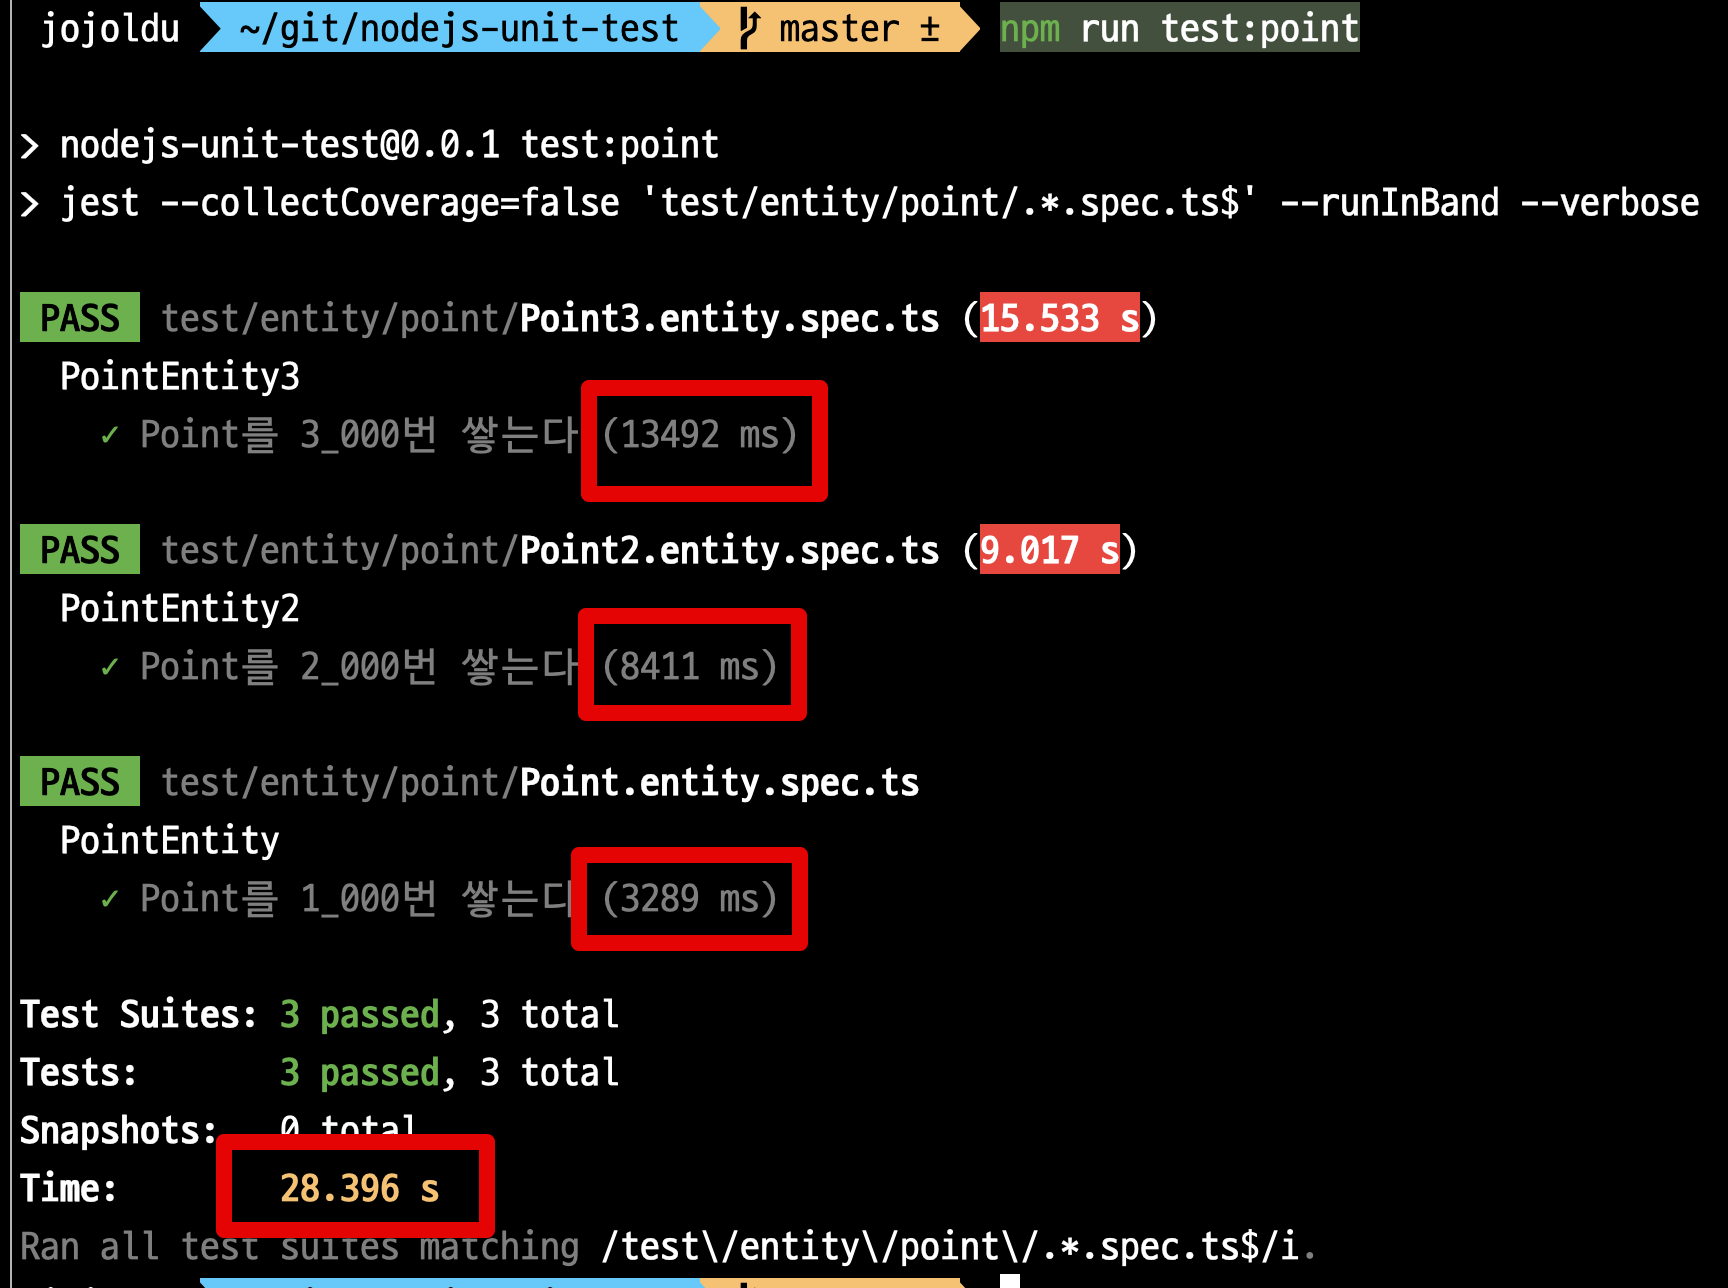
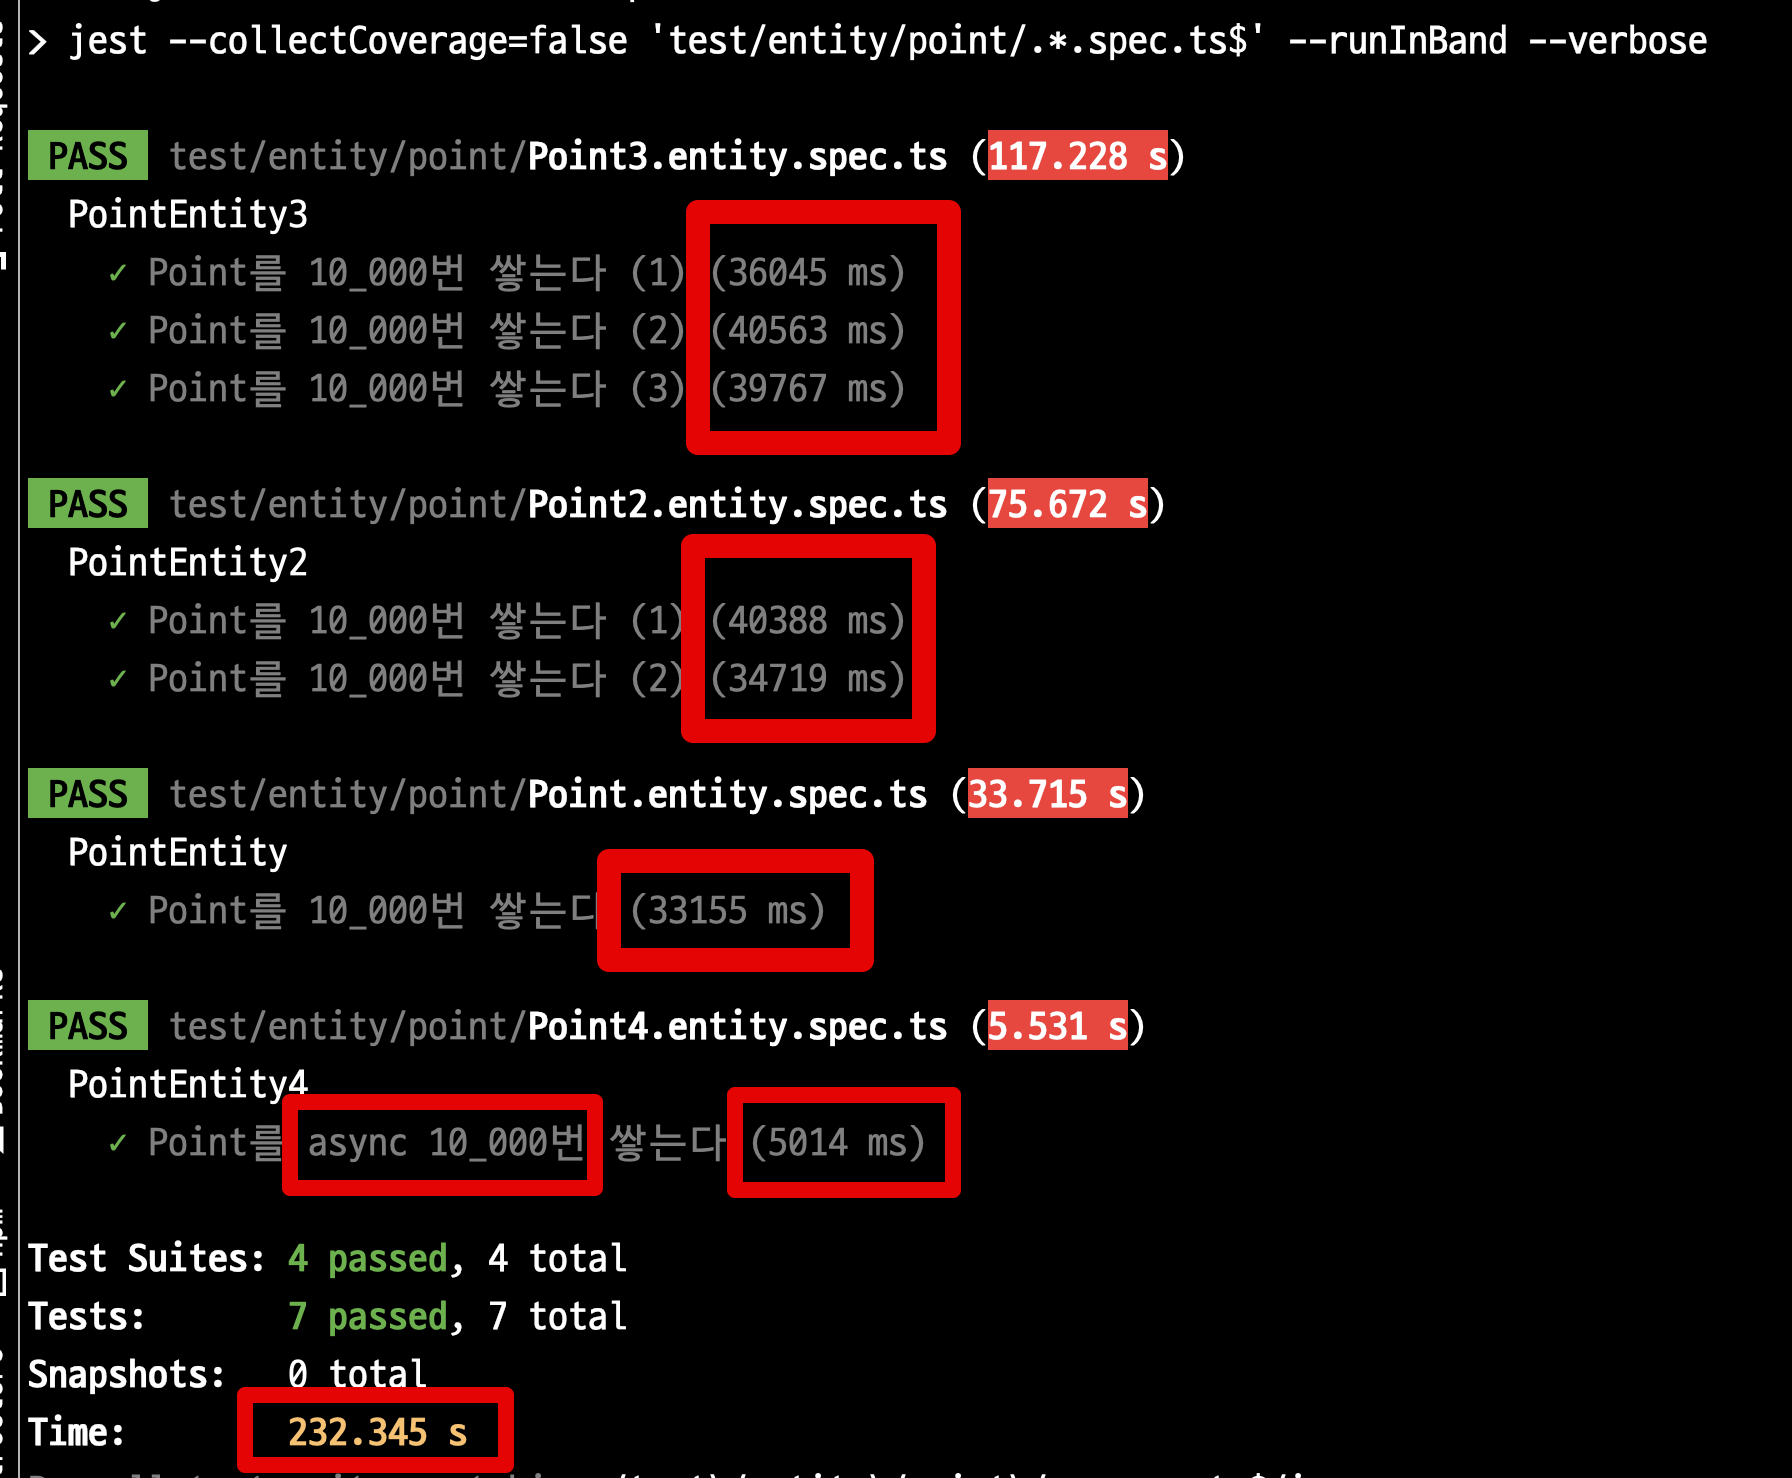
극적인 성능 비교를 위해 1,000 -> 10,000으로 데이터 증가

diff --git a/test/entity/point/Point3.entity.spec.ts b/test/entity/point/Point3.entity.spec.ts
@@ -5,7 +5,7 @@ import { getPgTestTypeOrmModule } from '../getPgTestTypeOrmModule';
 import { getRepositoryToken } from '@nestjs/typeorm';
 import { PointEntityModule } from '../../../src/domain/entity/Point/PointEntityModule';
 import { unloggedTable } from '../unloggedTable';
-import { bulkInsertPoints } from './bulkInsertPoints';
+import { bulkInsertPoints } from './insert/bulkInsertPoints';
 
 describe('PointEntity3', () => {
   let pointRepository: Repository<Point>;
@@ -15,7 +15,7 @@ describe('PointEntity3', () => {
       imports: [PointEntityModule, getPgTestTypeOrmModule()],
     }).compile();
 
-    await unloggedTable(getConnection());
+    // await unloggedTable(getConnection());
 
     pointRepository = module.get(getRepositoryToken(Point));
   });
@@ -24,25 +24,25 @@ describe('PointEntity3', () => {
 
   beforeEach(async () => await pointRepository.clear());
 
-  it('Point를 1_000번 쌓는다 (1)', async () => {
+  it('Point를 10_000번 쌓는다 (1)', async () => {
     // given
-    const count = 1_000;
+    const count = 10_000;
 
     // when
     await bulkInsertPoints(count, pointRepository);
   });
 
-  it('Point를 1_000번 쌓는다 (2)', async () => {
+  it('Point를 10_000번 쌓는다 (2)', async () => {
     // given
-    const count = 1_000;
+    const count = 10_000;
 
     // when
     await bulkInsertPoints(count, pointRepository);
   });
 
-  it('Point를 1_000번 쌓는다 (3)', async () => {
+  it('Point를 10_000번 쌓는다 (3)', async () => {
     // given
-    const count = 1_000;
+    const count = 10_000;
 
     // when
     await bulkInsertPoints(count, pointRepository);

diff --git a/test/entity/point/Point2.entity.spec.ts b/test/entity/point/Point2.entity.spec.ts
@@ -4,7 +4,7 @@ import { Test, TestingModule } from '@nestjs/testing';
 import { getPgTestTypeOrmModule } from '../getPgTestTypeOrmModule';
 import { getRepositoryToken } from '@nestjs/typeorm';
 import { PointEntityModule } from '../../../src/domain/entity/Point/PointEntityModule';
-import { bulkInsertPoints } from './bulkInsertPoints';
+import { bulkInsertPoints } from './insert/bulkInsertPoints';
 import { unloggedTable } from '../unloggedTable';
 
 describe('PointEntity2', () => {
@@ -15,7 +15,7 @@ describe('PointEntity2', () => {
       imports: [PointEntityModule, getPgTestTypeOrmModule()],
     }).compile();
 
-    await unloggedTable(getConnection());
+    // await unloggedTable(getConnection());
 
     pointRepository = module.get(getRepositoryToken(Point));
   });
@@ -24,17 +24,17 @@ describe('PointEntity2', () => {
 
   beforeEach(async () => await pointRepository.clear());
 
-  it('Point를 1_000번 쌓는다 (1)', async () => {
+  it('Point를 10_000번 쌓는다 (1)', async () => {
     // given
-    const count = 1_000;
+    const count = 10_000;
 
     // when
     await bulkInsertPoints(count, pointRepository);
   });
 
-  it('Point를 1_000번 쌓는다 (2)', async () => {
+  it('Point를 10_000번 쌓는다 (2)', async () => {
     // given
-    const count = 1_000;
+    const count = 10_000;
 
     // when
     await bulkInsertPoints(count, pointRepository);

diff --git a/test/entity/point/Point.entity.spec.ts b/test/entity/point/Point.entity.spec.ts
@@ -5,8 +5,8 @@ import { getPgTestTypeOrmModule } from '../getPgTestTypeOrmModule';
 import { getRepositoryToken } from '@nestjs/typeorm';
 import { PointEntityModule } from '../../../src/domain/entity/Point/PointEntityModule';
 import { unloggedTable } from '../unloggedTable';
-import { bulkInsertPoints } from './bulkInsertPoints';
-import { bulkAsyncInsertPoints } from './bulkAsyncInsertPoints';
+import { bulkInsertPoints } from './insert/bulkInsertPoints';
+import { bulkAsyncInsertPoints } from './insert/bulkAsyncInsertPoints';
 
 describe('PointEntity', () => {
   let pointRepository: Repository<Point>;
@@ -25,22 +25,11 @@ describe('PointEntity', () => {
 
   beforeEach(async () => await pointRepository.clear());
 
-  it('Point를 1_000번 쌓는다', async () => {
+  it('Point를 10_000번 쌓는다', async () => {
     // given
-    const count = 1000;
+    const count = 10_000;
 
     // when
     await bulkInsertPoints(count, pointRepository);
-  });
-
-  it('Point를 async 1_000번 쌓는다', async () => {
-    // given
-    const count = 1000;
-
-    // when
-    await bulkAsyncInsertPoints(count, pointRepository);
-
-    const actual = await pointRepository.count();
-    expect(actual).toBe(count);
   });
 });

diff --git a/test/entity/point/Point4.entity.spec.ts b/test/entity/point/Point4.entity.spec.ts
@@ -5,7 +5,7 @@ import { getPgTestTypeOrmModule } from '../getPgTestTypeOrmModule';
 import { getRepositoryToken } from '@nestjs/typeorm';
 import { PointEntityModule } from '../../../src/domain/entity/Point/PointEntityModule';
 import { unloggedTable } from '../unloggedTable';
-import { bulkAsyncInsertPoints } from './bulkAsyncInsertPoints';
+import { bulkAsyncInsertPoints } from './insert/bulkAsyncInsertPoints';
 
 describe('PointEntity4 ', () => {
   let pointRepository: Repository<Point>;
@@ -15,7 +15,7 @@ describe('PointEntity4 ', () => {
       imports: [PointEntityModule, getPgTestTypeOrmModule()],
     }).compile();
 
-    await unloggedTable(getConnection());
+    // await unloggedTable(getConnection());
 
     pointRepository = module.get(getRepositoryToken(Point));
   });
@@ -24,9 +24,9 @@ describe('PointEntity4 ', () => {
 
   beforeEach(async () => await pointRepository.clear());
 
-  it('Point를 async 1_000번 쌓는다', async () => {
+  it('Point를 async 10_000번 쌓는다', async () => {
     // given
-    const count = 1000;
+    const count = 10_000;
 
     // when
     await bulkAsyncInsertPoints(count, pointRepository);

diff --git a/test/entity/point/insert/bulkAsyncInsertPoints.ts b/test/entity/point/insert/bulkAsyncInsertPoints.ts
@@ -1,5 +1,5 @@
 import { Repository } from 'typeorm';
-import { Point } from '../../../src/domain/entity/Point/Point.entity';
+import { Point } from '../../../../src/domain/entity/Point/Point.entity';
 
 export async function bulkAsyncInsertPoints(count: number, pointRepository: Repository<Point>) {
   const points = [];
@@ -7,5 +7,5 @@ export async function bulkAsyncInsertPoints(count: number, pointRepository: Repo
     points.push(Point.of(key * 1_000));
   }
 
-  await Promise.all(points.map(p => pointRepository.insert(p)));
+  await Promise.all(points.map(p => pointRepository.save(p)));
 }

diff --git a/test/entity/point/insert/bulkInsertPoints.ts b/test/entity/point/insert/bulkInsertPoints.ts
@@ -1,8 +1,8 @@
 import { Repository } from 'typeorm';
-import { Point } from '../../../src/domain/entity/Point/Point.entity';
+import { Point } from '../../../../src/domain/entity/Point/Point.entity';
 
 export async function bulkInsertPoints(count: number, pointRepository: Repository<Point>) {
   for (let key = 0; key < count; key++) {
-    await pointRepository.insert(Point.of(key * 1_000));
+    await pointRepository.save(Point.of(key * 1_000));
   }
 }

diff --git a/posts/docker-통합테스트-성능개선/README.md b/posts/docker-통합테스트-성능개선/README.md
@@ -46,6 +46,7 @@ services:
 
 ```ts
 // bulkInsertPoints.ts
+// 수백개의 통합 테스트와 비슷한 상황을 가장하기 위해 모두 sync로 요청한다.
 export async function bulkInsertPoints(count: number, pointRepository: Repository<Point>) {
   for (let key = 0; key < count; key++) {
     await pointRepository.save(Point.of(key * 1_000));
@@ -53,11 +54,11 @@ export async function bulkInsertPoints(count: number, pointRepository: Repositor
 }
 
 // test1.ts
-describe('PointEntity, 1000번', () => {
+describe('PointEntity, 10_000번', () => {
   ...
-  it('Point를 1_000번 쌓는다', async () => {
+  it('Point를 10_000번 쌓는다', async () => {
     // given
-    const count = 1000;
+    const count = 10_000;
 
     // when
     await bulkInsertPoints(count, pointRepository);
@@ -65,20 +66,20 @@ describe('PointEntity, 1000번', () => {
 });
 
 // test2.ts
-describe('PointEntity2, 2000번', () => {
+describe('PointEntity2, 20_000번', () => {
   ...
 
-  it('Point를 1_000번 쌓는다 (1)', async () => {
+  it('Point를 10_000번 쌓는다 (1)', async () => {
     // given
-    const count = 1_000;
+    const count = 10_000;
 
     // when
     await bulkInsertPoints(count, pointRepository);
   });
 
-  it('Point를 1_000번 쌓는다 (2)', async () => {
+  it('Point를 10_000번 쌓는다 (2)', async () => {
     // given
-    const count = 1_000;
+    const count = 10_000;
 
     // when
     await bulkInsertPoints(count, pointRepository);
@@ -86,50 +87,69 @@ describe('PointEntity2, 2000번', () => {
 });
 
 // test3.ts
-describe('PointEntity3, 3000번', () => {
+describe('PointEntity3, 30_000번', () => {
   ...
 
-  it('Point를 1_000번 쌓는다 (1)', async () => {
+  it('Point를 10_000번 쌓는다 (1)', async () => {
     // given
-    const count = 1_000;
+    const count = 10_000;
 
     // when
     await bulkInsertPoints(count, pointRepository);
   });
 
-  it('Point를 1_000번 쌓는다 (2)', async () => {
+  it('Point를 10_000번 쌓는다 (2)', async () => {
     // given
-    const count = 1_000;
+    const count = 10_000;
 
     // when
     await bulkInsertPoints(count, pointRepository);
   });
 
-  it('Point를 1_000번 쌓는다 (3)', async () => {
+  it('Point를 10_000번 쌓는다 (3)', async () => {
     // given
-    const count = 1_000;
+    const count = 10_000;
 
     // when
     await bulkInsertPoints(count, pointRepository);
   });
 });
+
+// test4.ts
+describe('PointEntity4, async', () => {
+  ...
+
+  it('Point를 async 10_000번 쌓는다', async () => {
+    // given
+    const count = 10_000;
+
+    // when
+    await bulkAsyncInsertPoints(count, pointRepository);
+
+    const actual = await pointRepository.count();
+    expect(actual).toBe(count);
+  });
+
+});
 ```
 
-- 한번에 **6,000개**를 Insert 하는 것보다는 좀 더 현실감 있게 테스트 파일을 나눠 `connection` 의 `create` 와 `close` 를 여러번 수행되도록 구성 되었다.
-- 6,000개를 산정한 이유는 일반적으로 통합 테스트에서 페이징 쿼리, 복잡한 통계 쿼리, 1:N 관계에서의 저장 등 한번의 테스트에 5 ~ 1N 개가 저장되고, 이런 테스트가 수십 ~ 수백개가 있을것이라는 가정을 전제했다.
+- 한번에 **70,000개**를 Insert 하는 것보다는 좀 더 현실감 있게 테스트 파일을 나눠 `connection` 의 `create` 와 `close` 를 여러번 수행되도록 구성 되었다.
+- 많은 숫자의 데이터를 산정한 이유는 일반적으로 통합 테스트에서 페이징 쿼리를 위한 데이터 등록, 복잡한 통계 쿼리, 1:N 관계에서의 저장 등 한번의 테스트에 5 ~ 1N 개가 저장되고, 이런 테스트가 수십 ~ 수백개가 있을것이라는 가정을 전제했다.
 - `Promise.all` 로 `insert`를 처리하는 것은 **이 글에서는 해결책이 아니다**.
   - 테스트 파일을 수백개 만들지 못해서 임의로 `for loop` 를 돌린 것이다.
   - 실제로는 수백개의 테스트 파일이 도커 PostgreSQL를 사용하는 통합 테스트 환경이기 때문에 모든 테스트는 순차적으로 (`--runInBand`) 되어야 한다.
   - 이번 글에서의 핵심은 **더이상 테스트 코드에서는 성능 개선이 어려운 상황**인 경우이다.
 
-위 테스트를 실제로 수행해보면 **28초**가 수행된다.
+위 테스트를 실제로 수행해보면 **232초**가 수행된다.
 
 ![new-1-origin](./images/new-1-origin.png)
 
-* 3000 insert: 13.4초
-* 2000 insert: 8.4초
-* 1000 insert: 3.3초
-* 전체: 28초
+* 30,000 insert: 117초
+* 20,000 insert: 75초
+* 10,000 insert: 33초
+* 10,000 **async** insert: 5초
+* 전체: 232초
+* 1만건당 **sync** 평균 3~4초
 
 이제 이 느리고 거대한 테스트를 개선해보자.
 
@@ -146,6 +166,34 @@ PostgreSQL을 사용한 빠른 통합 테스트의 핵심은 매번 테스트때
   
 그래서 통합 테스트의 성능을 올리는 것의 핵심은 안정적인 데이터베이스 운영에 필요한 여러 설정들을 `off` 하여 속도를 올리는 것이다.
 
+
+## 1. 애플리케이션
+
+### 1-1. save -> insert
+
+TypeORM을 비롯한 ORM들은 `cascade`, `relations` 등 Entity에 관련된 여러 연관관계 작업들을 Entity 저장시에 지원한다.  
+그러다보니 단순 데이터를 저장하는데에도 많은 리소스를 사용한다.  
+
+
+### 1-2. SWC
+
+```bash
+yarn add -D @swc-node/jest
+```
+
+```ts
+"jest": {
+  "transform": {
+    "^.+\\.(t|j)s$": [
+      "@swc-node/jest",
+      {
+        "swc": {
+          "sourceMaps": "inline"
+        }
+      }
+    ]
+  },
+```
 ## 1. tmpfs
 
 가장 쉽게 효과를 볼 수 있는 방법은 **데이터베이스의 Data 디렉토리를 메모리**로 옮기는 것이다.  
@@ -187,7 +235,7 @@ docker volume rm $(docker volume ls -q)
 
 * 3000 insert: 9.5초 (30% 개선)
 * 2000 insert: 6.7초 (21% 개선)
-* 1000 insert: 3.3초
+* 10_000 insert: 3.3초
 * 전체: 22초 (22% 개선)
 
 한 줄의 설정값으로 **20~30%의 성능 개선**을 얻었다.  
@@ -304,31 +352,6 @@ export async function generateTestSchema(orm: MikroORM) {
 
 ```
 
-## insert
-
-TypeORM을 비롯한 ORM들은 `cascade`, `relations` 등 Entity에 관련된 여러 연관관계 작업들을 Entity 저장시에 지원한다.  
-그러다보니 단순 데이터를 저장하는데에도 많은 리소스를 사용한다.  
-
-
-## SWC
-
-```bash
-yarn add -D @swc-node/jest
-```
-
-```ts
-"jest": {
-  "transform": {
-    "^.+\\.(t|j)s$": [
-      "@swc-node/jest",
-      {
-        "swc": {
-          "sourceMaps": "inline"
-        }
-      }
-    ]
-  },
-```
 
 ## 마무리
 
